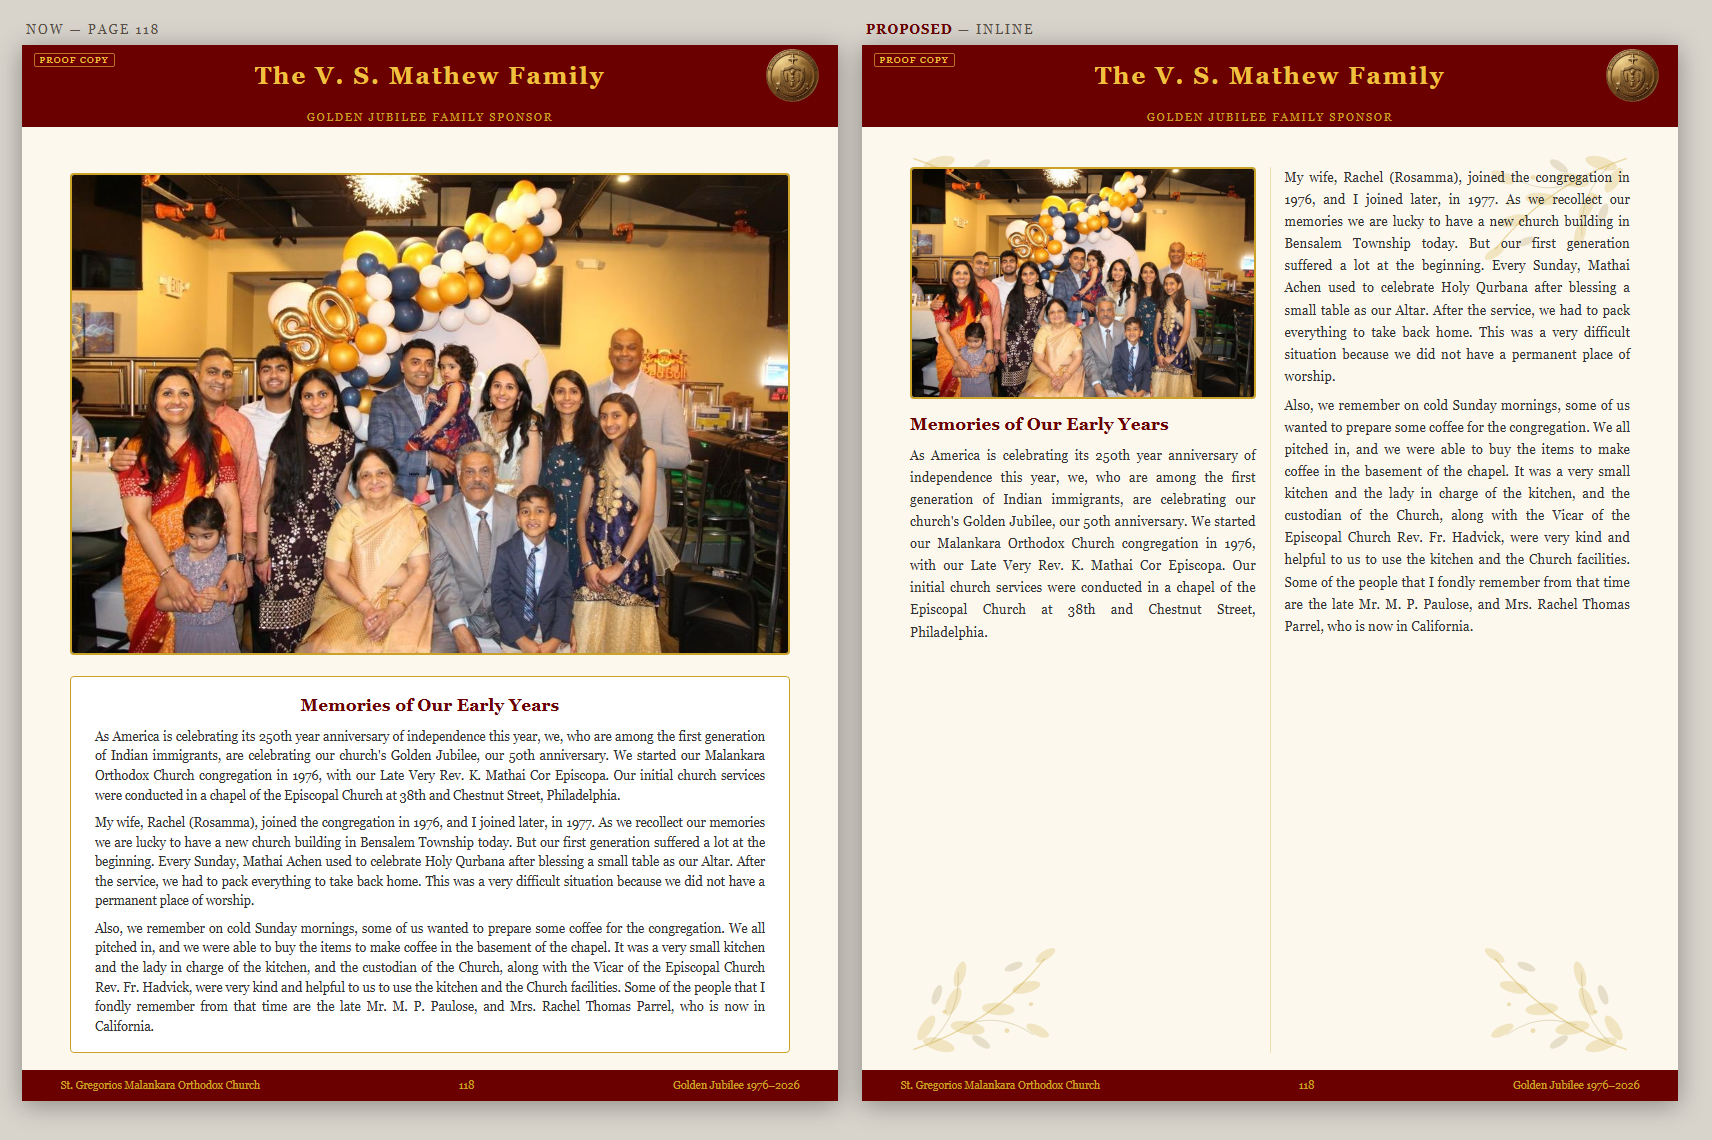
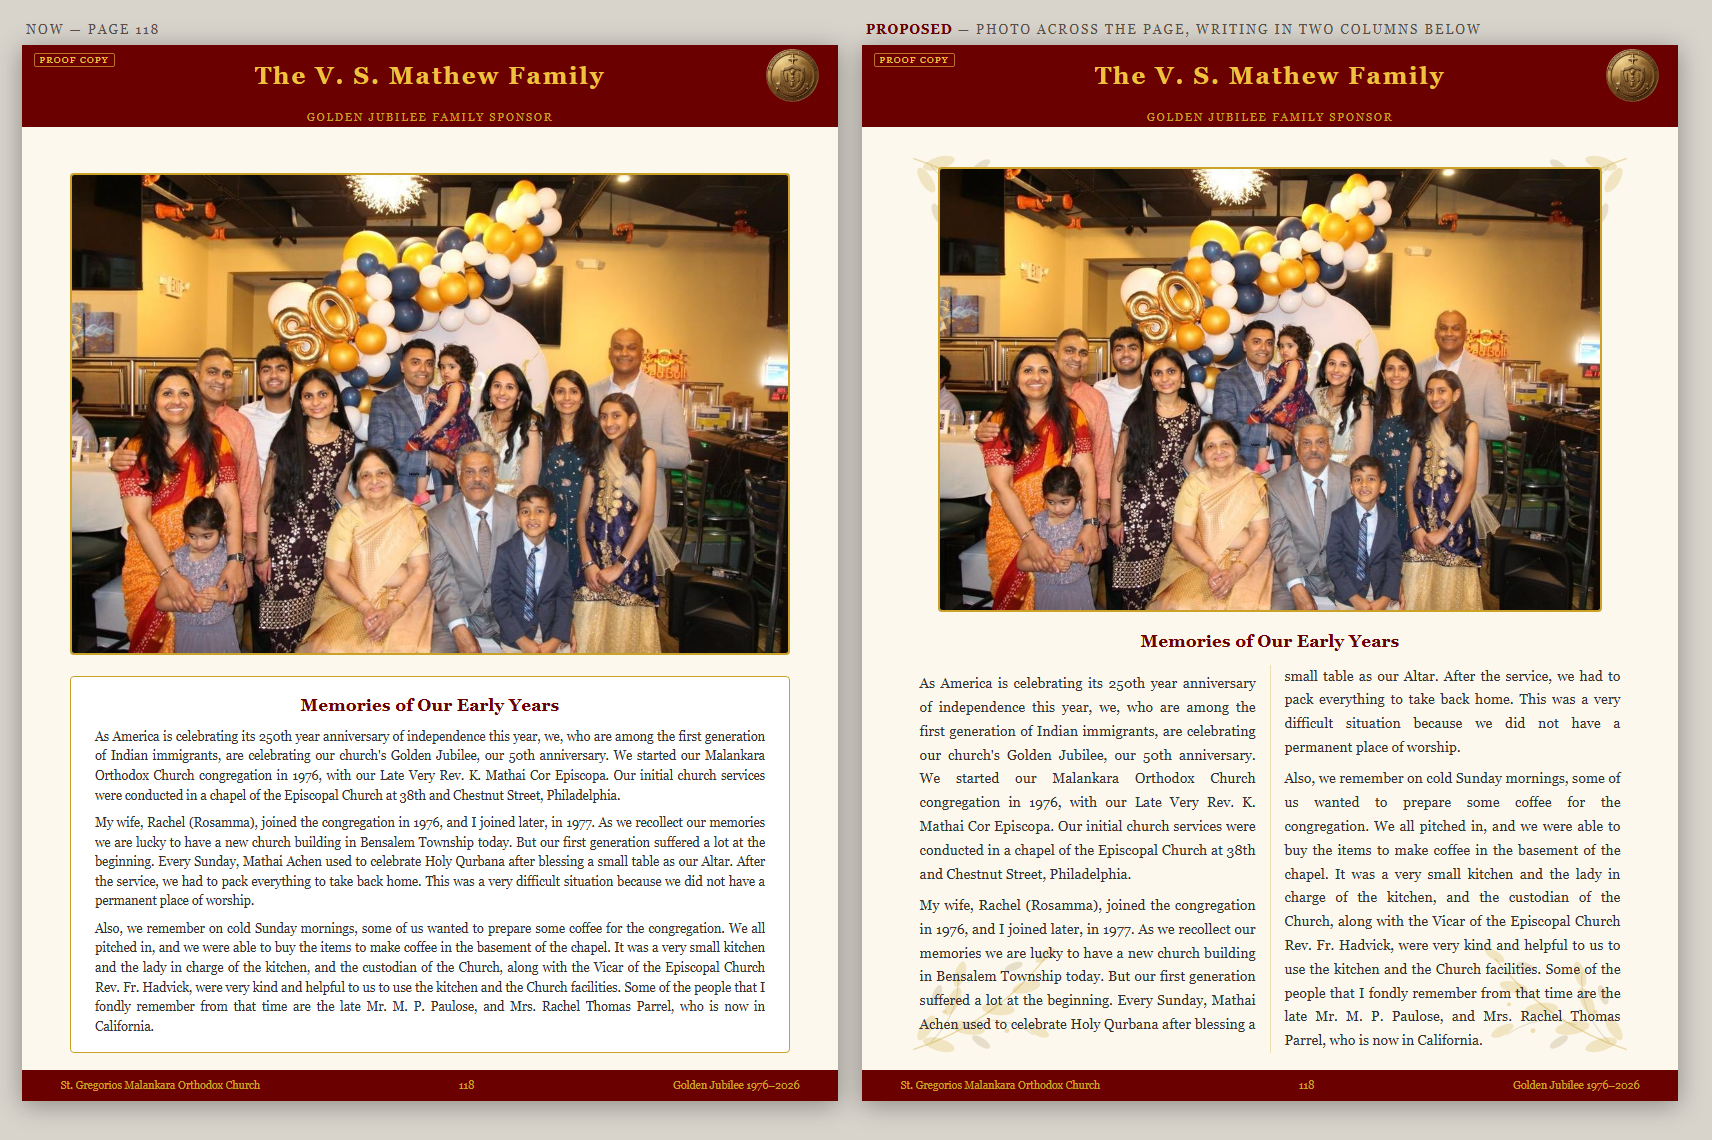
Redo the under-filled pages: photo takes the slack
Inline needs about 2,200 characters to fill both columns. Below that it
left the bottom third of the page empty and held the photo to column
width — V. S. Mathew p118 was the page that showed it. Those 8 pages now
run the photo full width, growing into the height the writing does not
use, with the text in two bare columns below. V. S. Mathew p119 reset to
larger type with no box.

Review sheets and rule counts updated to match.

Claude-Session: https://claude.ai/code/session_01VzfEJnHEP3TqbV477Pubb4

Changed region(s): [[0.5263, 0.1228, 0.9597, 0.9211], [0.5572, 0.0, 0.8668, 0.0307]]

diff --git a/review-layout.html b/review-layout.html
@@ -113,7 +113,7 @@
   <div class="inner">
     <p class="eyebrow">Golden Jubilee Souvenir · 15 September 2026</p>
     <h1>Jubilee Page Layouts</h1>
-    <p class="standfirst">Manoj's notes built into the page templates, shown as before and after on eight pages. 27 pages changed.</p>
+    <p class="standfirst">Manoj's notes built into the page templates, shown as before and after on eight pages. 28 pages changed.</p>
     <span class="status">Built locally — the live site is unchanged</span>
   </div>
 </header>
@@ -143,8 +143,14 @@
       <div class="rule-card">
         <span class="n">Rule 3</span>
         <h3>Inline</h3>
-        <p>Photo at the top left, writing starting below it and running down the whole right side, exactly as in the page he sent.</p>
-        <span class="count">10 pages</span>
+        <p>Photo at the top left, writing starting below it and running down the whole right side, exactly as in the page he sent. It needs about 2,200 words&rsquo; worth of characters to fill both columns.</p>
+        <span class="count">2 pages</span>
+      </div>
+      <div class="rule-card">
+        <span class="n">Rule 4</span>
+        <h3>Photo takes the slack</h3>
+        <p>Where there is less writing than that, inline leaves the bottom third empty and pins the photo to one column. Instead the photo runs the full width and grows into whatever height the writing does not use, with the text in two bare columns below it.</p>
+        <span class="count">9 pages</span>
       </div>
       <div class="rule-card">
         <span class="n">Also</span>
@@ -229,8 +235,8 @@
       <img src="images/review/compare/v-s-mathew.png" alt="The V. S. Mathew Family page, before and after: photo top left with text flowing beside and below it">
       <figcaption>
         <span class="pg">Page 118 · V. S. Mathew</span>
-        <span class="what">Inline. One of the pages measured emptiest before.</span>
-        <span class="flag ok">Settled</span>
+        <span class="what">Photo across the full width, writing in two columns beneath it. Inline was tried here first and was wrong: 1,537 characters left the bottom third bare and held the photo to column width. Their second page, p119, was reset at the same time — larger type, no box, filling the page.</span>
+        <span class="flag ok">Redone</span>
       </figcaption>
     </figure>
   </section>
